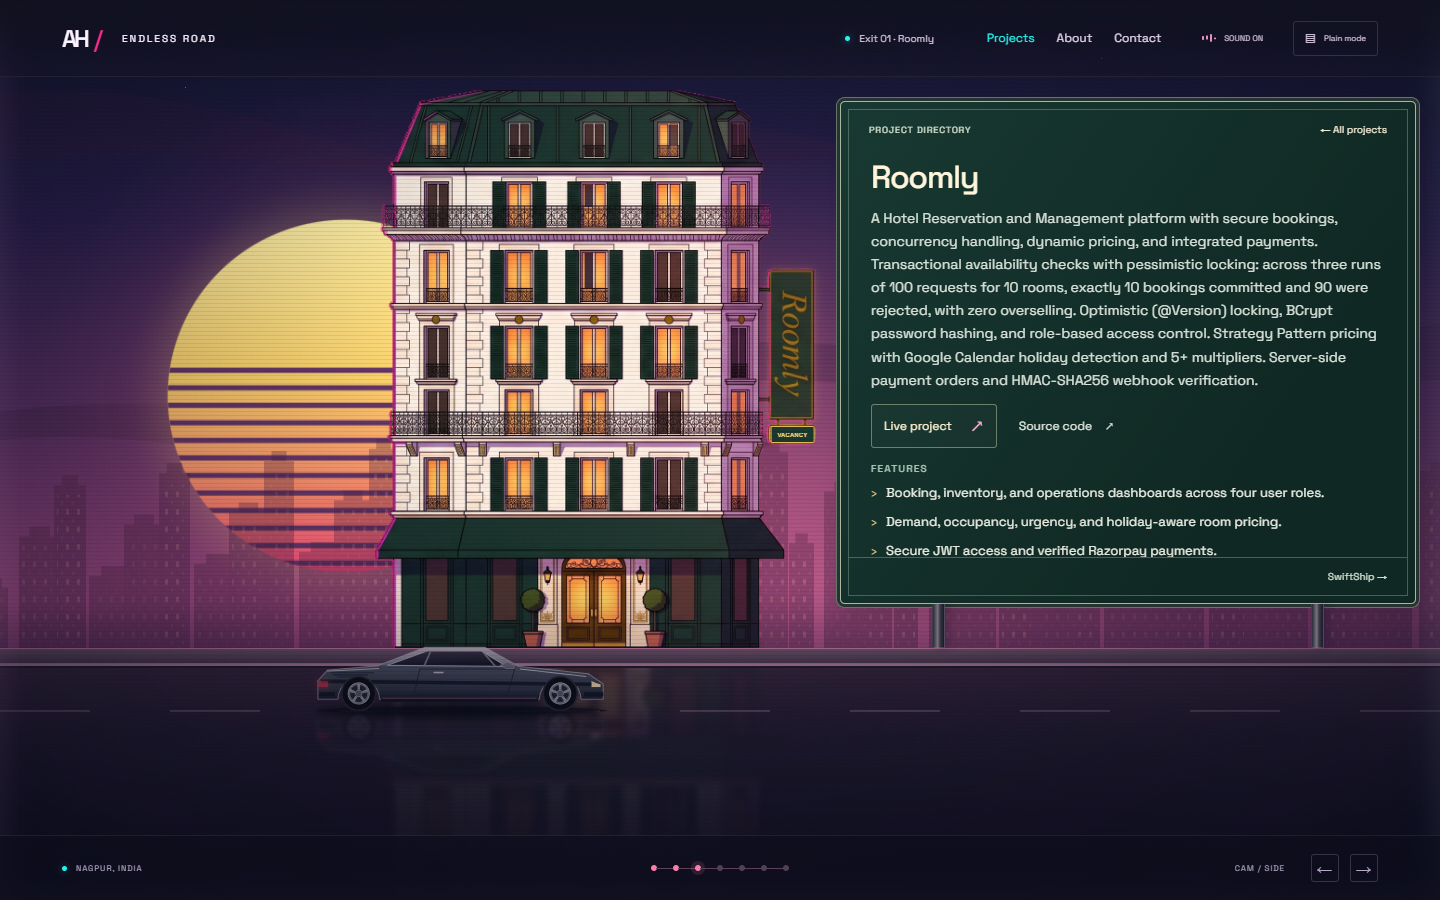
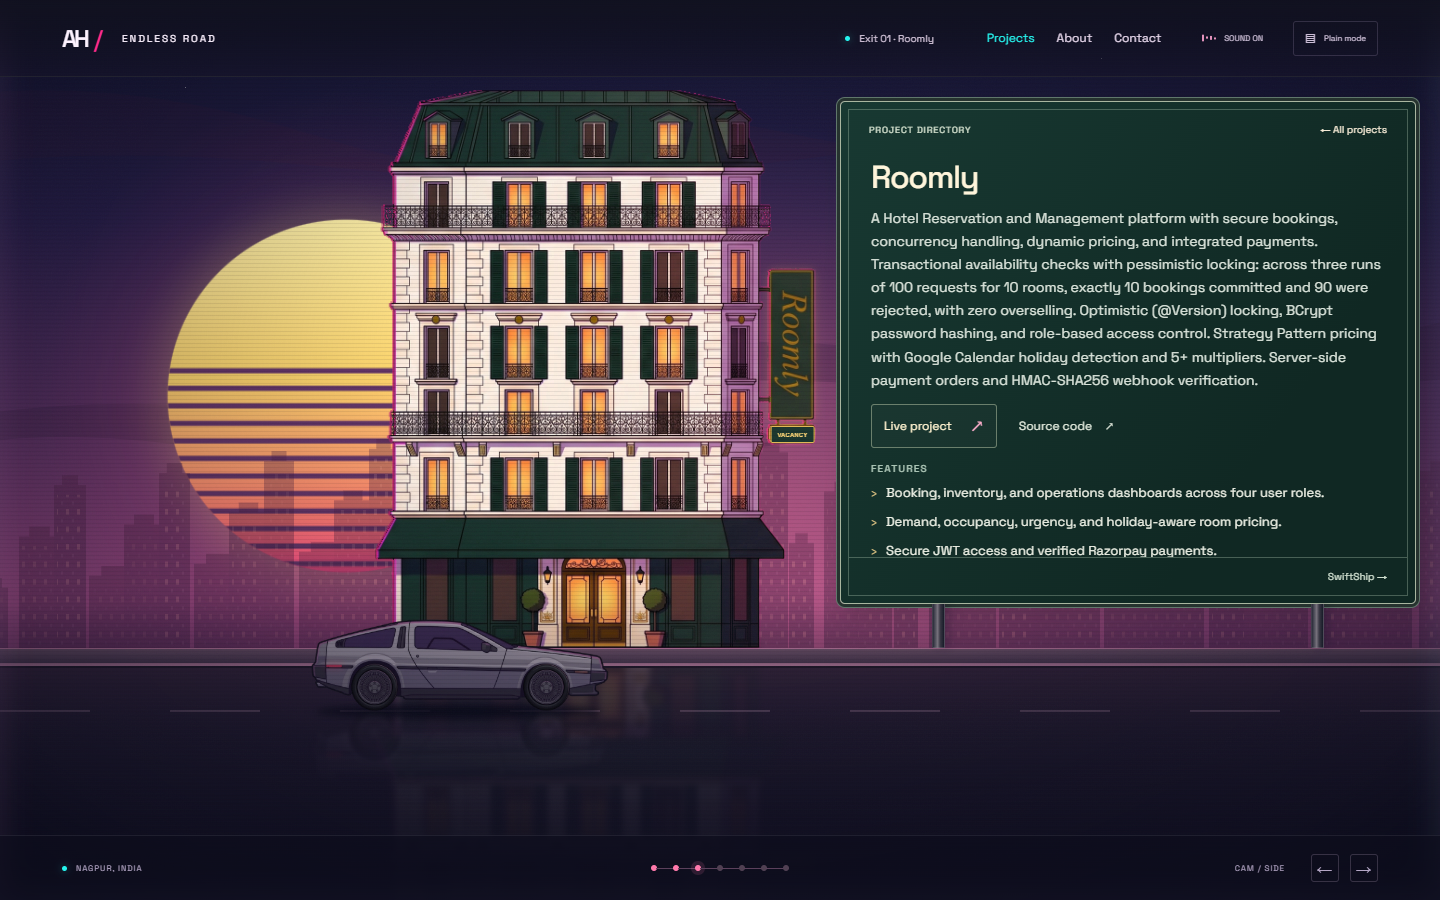
Document car asset workflow and refresh verified scene previews

diff --git a/README.md b/README.md
@@ -116,3 +116,9 @@ Supply:
 `SignalFlow.tsx` owns one cancellable animation frame and a fixed pool of eight sprites (four on mobile). Signal timing is green 2.4 s, amber 1.0 s, red 2.8 s. Packets spawn at least 700 ms apart, with a 20% flagged probability. Green routes to NOTIFY; amber queues near DIGEST for 600 ms; red stops before the gate. Flagged messages dissolve before the depot with a cross burst. Chute flashes last 200 ms. Server LEDs change at 0.4–1.6 s intervals. Mobile uses straight intake paths and hides rooftop waves; reduced motion has a static green signal and no packet pool. Scene changes, hidden tabs, and preference changes cancel the frame and clear active packets.
 
 `npx playwright test tests/signalroute.spec.ts tests/stops.spec.ts` checks all raster stops, signal cycling, message movement, card clearance, pool bounds, reduced motion, and 1→2→3→1 cleanup. SignalRoute screenshots and debug overlays at 1440×900 and 390×844 are in `screenshots/`.
+
+### DeLorean artwork
+
+Accepted car originals live in `assets-src/cars/`. Run `node scripts/key-cars.mjs` to chroma-key, despill, trim, and export transparent WebP assets into `public/assets/cars/`. The side source is the clean wheel-less body supplied on November 5; separate tyres rotate during arrival and stop when parked. All project stops share `SideCar.tsx`, including their reflections. Home and contact share the rear sprite through `Car.tsx`. Reduced-motion preferences disable tyre rotation.
+
+The top-view asset is prepared but currently unused. The earlier overlapping side-reference images and the front three-quarter image are not used by the runtime.
